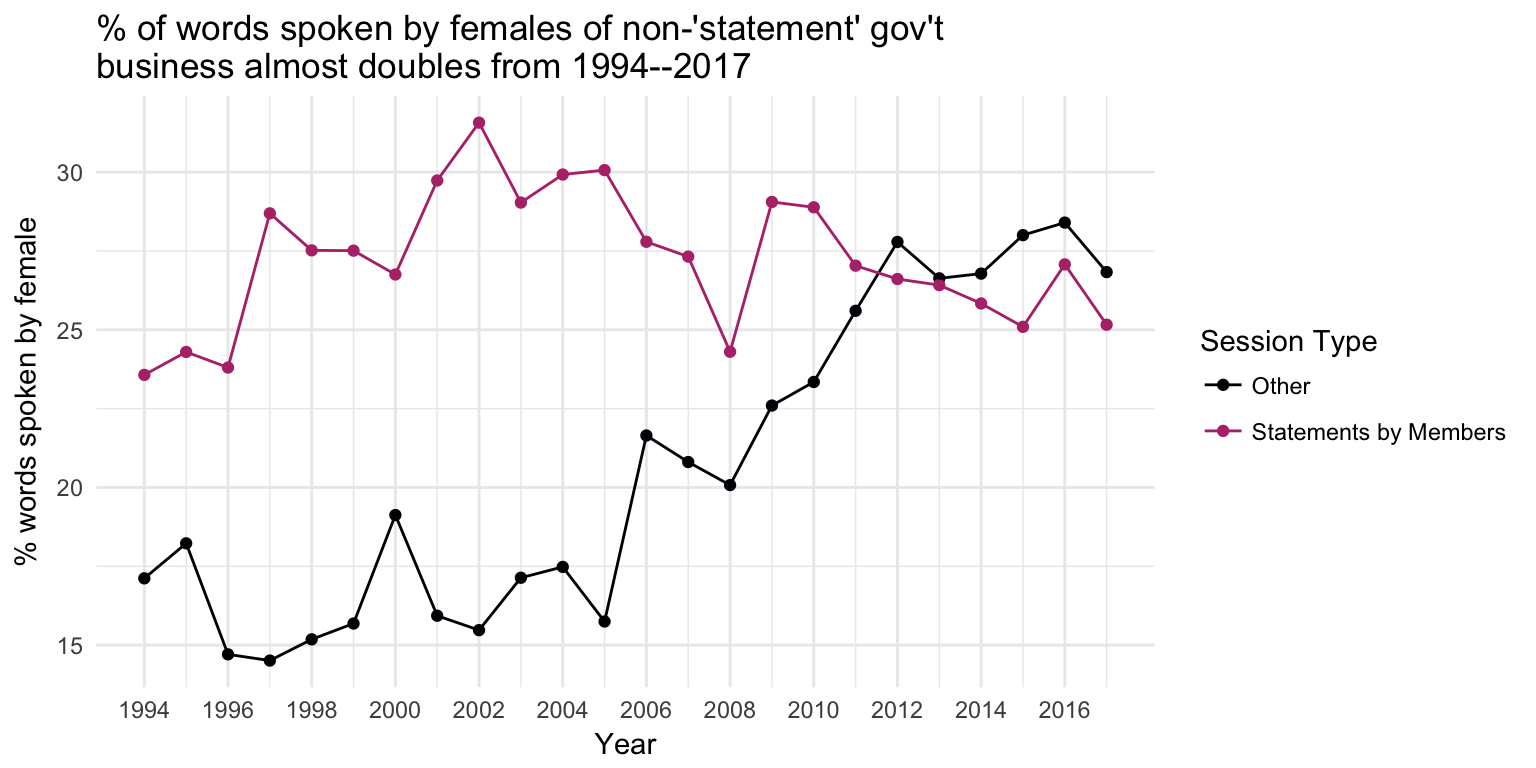
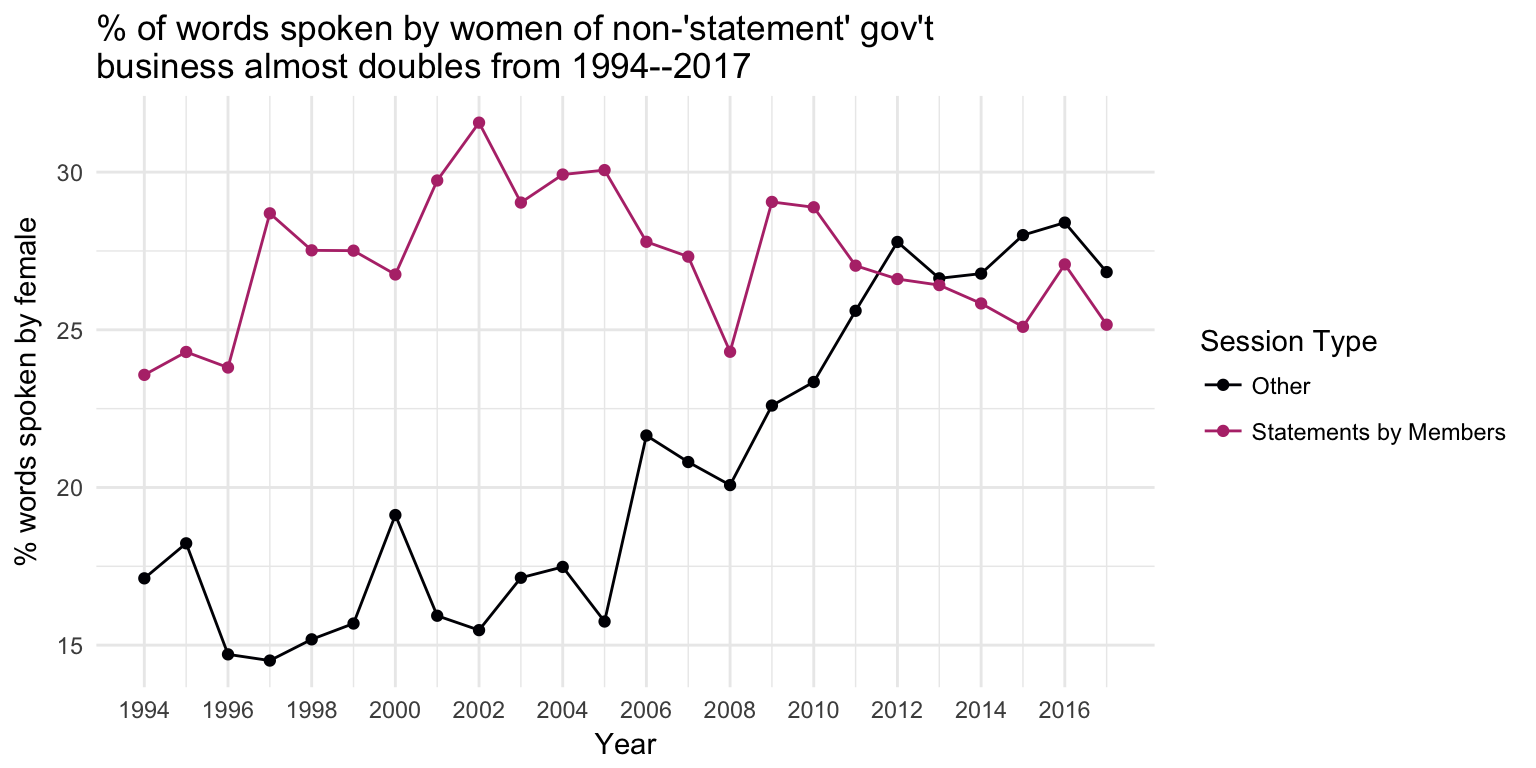
Change 'females' to 'women'.
What was I thinking.

Changed region(s): [[0.2812, 0.0, 0.625, 0.0625]]

diff --git a/content/post/2018-02-14-parliament-gender.html b/content/post/2018-02-14-parliament-gender.html
@@ -16,7 +16,7 @@ image: "https://jesse.tw/images/circle-arrows.png"
 <h2>Summary</h2>
 <ol style="list-style-type: decimal">
 <li>Women make up <a href="http://www.cbc.ca/news2/interactives/women-politics/">20-25% of Parliament</a></li>
-<li>Number of words spoken by females increases from 1994–2017 from 15% to 28%</li>
+<li>Number of words spoken by women increases from 1994–2017 from 15% to 28%</li>
 <li>Increase mainly comes from doubling involvement in routine government business</li>
 <li>Nice to have Trudeau’s <a href="http://www.cbc.ca/news2/interactives/women-politics/">gender-balanced cabinet</a>, but female MPs are also becoming more involved in day-to-day operations</li>
 </ol>
@@ -157,13 +157,13 @@ han_df %&gt;% print(n = 5)
 han_df &lt;- han_df %&gt;% mutate(time = with_tz(time, &quot;America/Toronto&quot;))
 han_df %&gt;% sample_n(5) # an easy way to look at a random sample of observations instead of just the first 10
 ## # A tibble: 5 x 11
-##   time                h1_en  h2_en h3_en who_en    politician_id wordcount
-##   &lt;dttm&gt;              &lt;chr&gt;  &lt;chr&gt; &lt;chr&gt; &lt;chr&gt;             &lt;int&gt;     &lt;int&gt;
-## 1 2004-04-23 11:30:00 Oral … Spon… &lt;NA&gt;  Hon. Ann…          1951        52
-## 2 2006-10-05 17:15:00 &lt;NA&gt;   &lt;NA&gt;  &lt;NA&gt;  The Chair           201         3
-## 3 2002-04-18 11:40:00 Routi… Comm… &lt;NA&gt;  The Acti…            NA        29
-## 4 2010-11-18 16:59:00 &lt;NA&gt;   &lt;NA&gt;  &lt;NA&gt;  The Chair           424        48
-## 5 1998-02-19 14:15:00 Oral … The … &lt;NA&gt;  Right Ho…          5241        76
+##   time                h1_en   h2_en h3_en who_en   politician_id wordcount
+##   &lt;dttm&gt;              &lt;chr&gt;   &lt;chr&gt; &lt;chr&gt; &lt;chr&gt;            &lt;int&gt;     &lt;int&gt;
+## 1 2017-10-23 17:30:00 &lt;NA&gt;    &lt;NA&gt;  &lt;NA&gt;  Ms. Meg…            NA         2
+## 2 2016-06-06 15:25:00 Routin… Priv… &lt;NA&gt;  The Spe…           242        33
+## 3 2011-02-03 12:25:00 &lt;NA&gt;    &lt;NA&gt;  &lt;NA&gt;  Mr. Yve…           169       148
+## 4 2013-02-14 09:05:00 &lt;NA&gt;    &lt;NA&gt;  &lt;NA&gt;  Chief M…            NA        28
+## 5 2007-03-29 13:40:00 &lt;NA&gt;    &lt;NA&gt;  &lt;NA&gt;  Mr. Pau…           421         2
 ## # ... with 4 more variables: who_hocid &lt;chr&gt;, who_context_en &lt;chr&gt;,
 ## #   name &lt;chr&gt;, gender &lt;chr&gt;</code></pre>
 <p>Ok, now we’re getting somewhere. I want to check two things: (1) what does the time distribution look like? and (2) can we get the gender of the MPs from names? We got genders from the politician database, but there are some sanity checks we’ll need. Leave that for later.</p>
@@ -186,13 +186,13 @@ han_df %&gt;% sample_n(5) # an easy way to look at a random sample of observatio
   filter(gender != &quot;&quot;)
 words_gender %&gt;% select(who_en, gender, gender_x) %&gt;% sample_n(5)
 ## # A tibble: 5 x 3
-##   who_en             gender gender_x
-##   &lt;chr&gt;              &lt;chr&gt;  &lt;chr&gt;   
-## 1 Mr. Jacques Gourde M      M       
-## 2 Hon. Scott Brison  M      &quot;&quot;      
-## 3 The Chair          M      &quot;&quot;      
-## 4 Hon. Marc Garneau  M      &quot;&quot;      
-## 5 Mr. Brian Ferguson M      M</code></pre>
+##   who_en                             gender gender_x
+##   &lt;chr&gt;                              &lt;chr&gt;  &lt;chr&gt;   
+## 1 The Chair                          M      &quot;&quot;      
+## 2 Mr. Larry Bagnell (Yukon, Lib.)    M      M       
+## 3 The Chair                          M      &quot;&quot;      
+## 4 The Chair                          M      &quot;&quot;      
+## 5 The Vice-Chair (Mr. Malcolm Allen) M      M</code></pre>
 Ok, that’s not bad; now what are the overall statistics?
 <table class="table" style="width: auto !important; margin-left: auto; margin-right: auto;">
 <thead>
@@ -233,7 +233,7 @@ M
 </tr>
 </tbody>
 </table>
-<p>Not great. Does it change over time? We know 2015 was a record breaking election for female candidates; on the other hand, the previous record was 1993. So in between: 🤷🏽.</p>
+<p>Not great. Does it change over time? We know 2015 was a record breaking election for female candidates; on the other hand, the previous record was 1993. So in between: 🤷🏾♂.</p>
 <p><img src="/post/2018-02-14-parliament-gender_files/figure-html/unnamed-chunk-10-1.png" width="768" /></p>
 <p>Whoops. There’s an obvious break in the series for Count—so something happened to the data collection or the structure of the hansard (it’s less likely that parliament itself changed significantly at that time). On the plus side, women get more words in Parliament over time!</p>
 </div>
@@ -341,7 +341,7 @@ Statements by Members
 <p>That’s it. Parliament’s gender power imbalance is still poor, but has improved over time:</p>
 <ol style="list-style-type: decimal">
 <li>Women make up 20-25% of Parliament</li>
-<li>Number of words spoken by females increases from 1994–2017 from 15% to 28%</li>
+<li>Number of words spoken by women increases from 1994–2017 from 15% to 28%</li>
 <li>Increase mainly comes from doubling involvement in routine government business</li>
 </ol>
 <p>And that’s before we get to the words! Who knows what these people are actually saying? <a href="https://github.com/juliasilge/tidytext">tidytext</a> does! And after writing this, I found out about <a href="https://www.lipad.ca/data/">Linked Parliamentary Data Project (LiPaD)</a> at the University of Toronto, an even larger historical digital source of Canadian Hansards. Who knows what we can come up with!</p>
